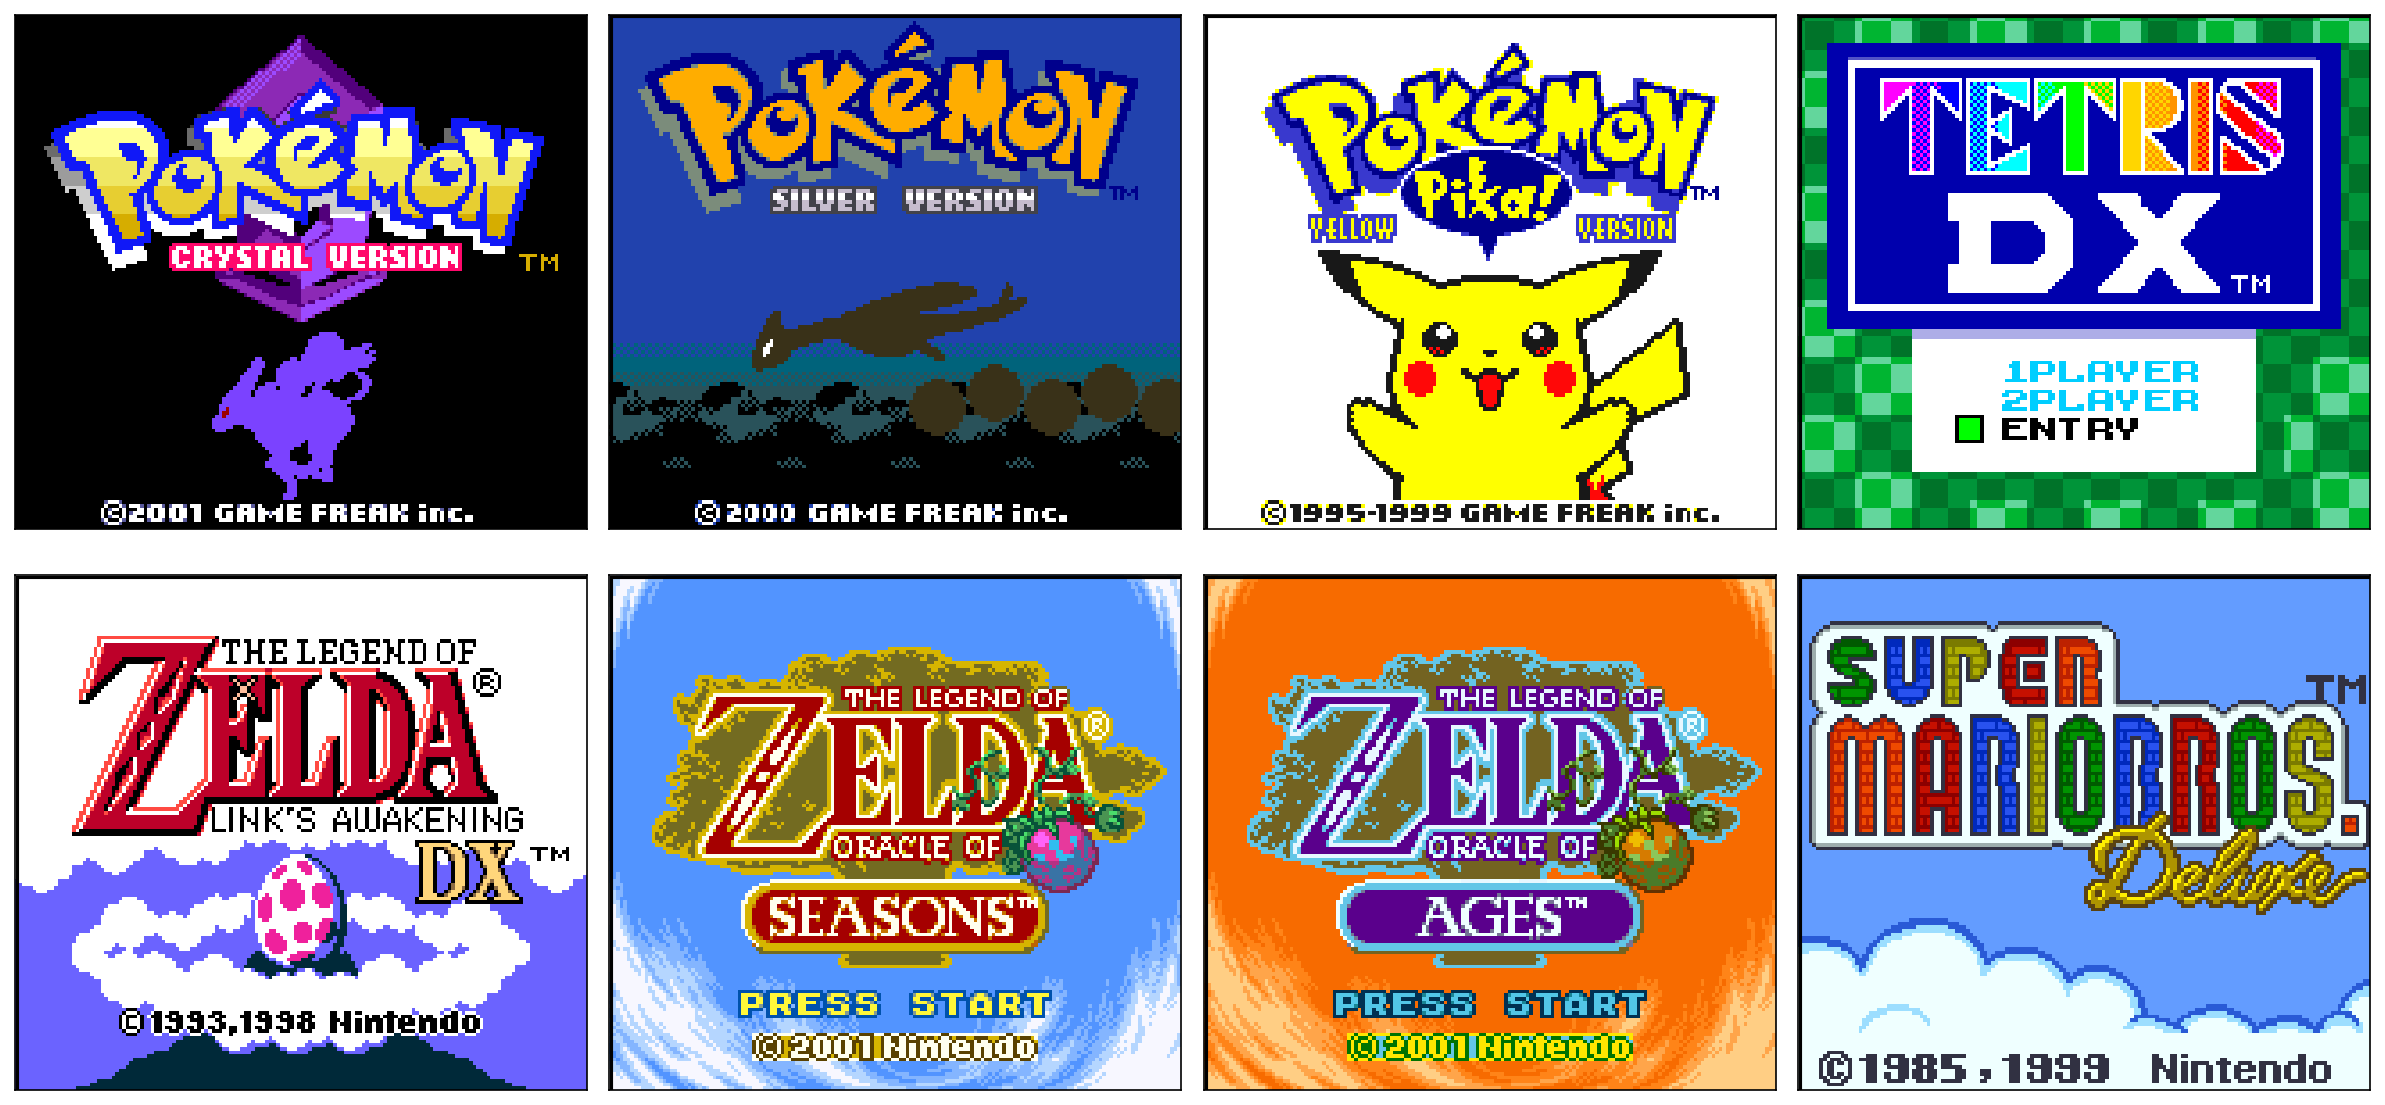
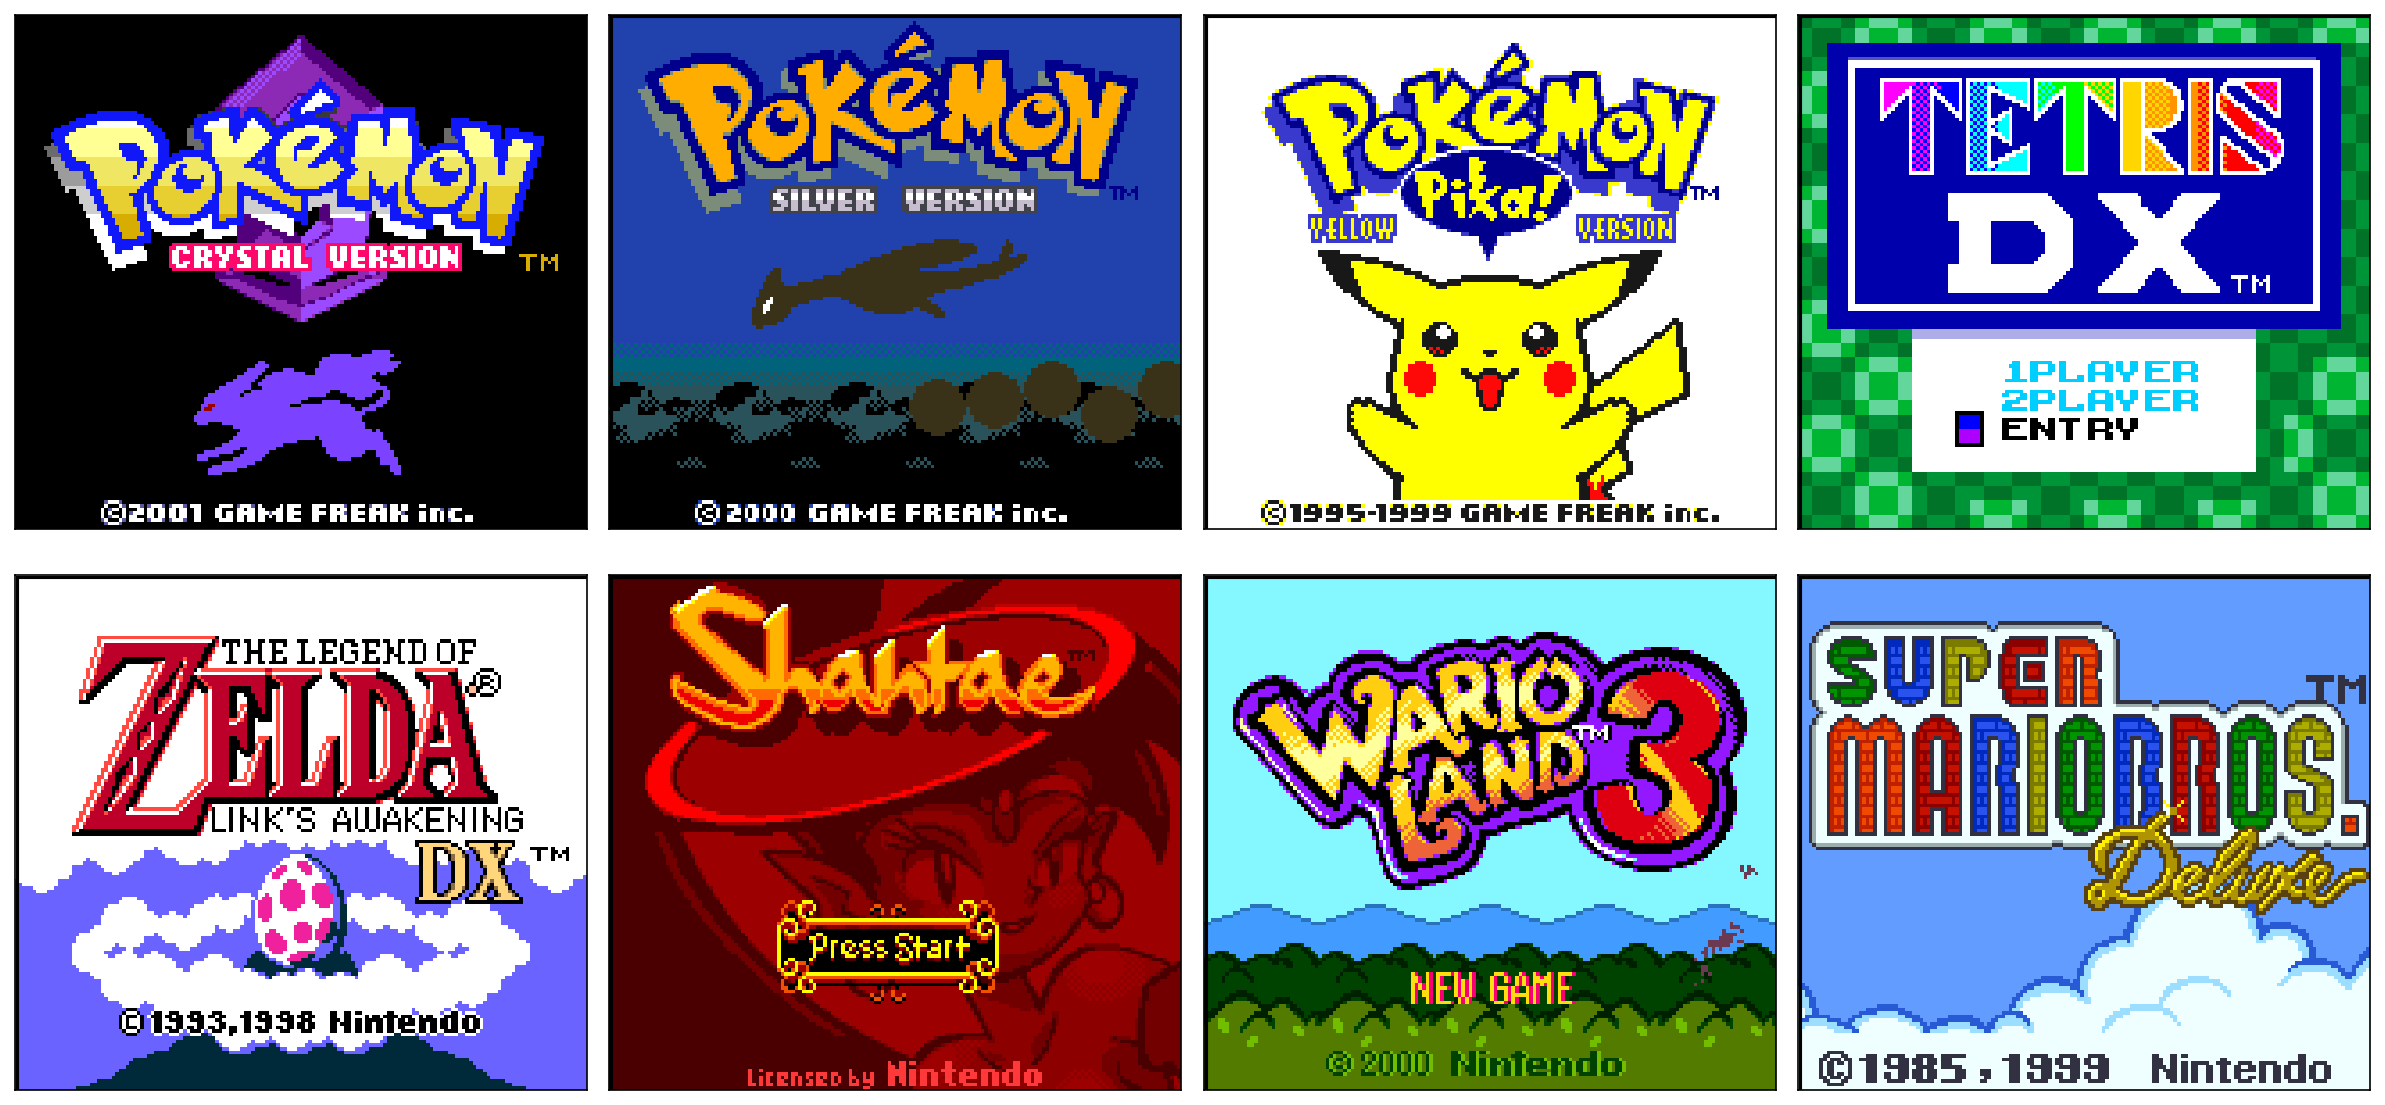
Update readme visual script

diff --git a/testing/util/readme_visual.py b/testing/util/readme_visual.py
@@ -1,30 +1,21 @@
 #!/usr/bin/env python3
-from gbc_py import (
-    load_cart_fs,
+from irogb_python import (
+    load_cart_filesystem,
     GameBoyColor,
 )
 from matplotlib.patches import Rectangle
 import matplotlib.pyplot as plt
 from typing import List
-import numpy as np
+import os
 
 
-def __run_and_get_frame(path: str, seconds: int) -> List[int]:
-    cart = load_cart_fs(path)
-    gbc = GameBoyColor()
-    gbc.insert_cartridge(cart)
+def run_and_get_frame(path: str, seconds: int) -> List[int]:
+    cart = load_cart_filesystem(path)
+    gbc = GameBoyColor(cartridge=cart)
 
-    gbc.step_cycles(70224 * 60 * seconds)
-    return gbc.get_frame()
-
-
-def __render_from_path(path, seconds):
-    frame = __run_and_get_frame(path, seconds)
-    frame = np.asarray(frame, dtype=np.uint32)
-
-    pixels = frame.view(np.uint8).reshape((144, 160, 4))
-    img = pixels[..., [2, 1, 0]]  # ARGB8888 → RGB
-    return img
+    for _ in range(seconds * 60):
+        gbc.step_frame()
+    return gbc.frame.as_numpy()
 
 
 def __run_test_set(
@@ -32,8 +23,10 @@ def __run_test_set(
     seconds: List[int],
     out_path: str,
 ):
-    images = [__render_from_path(path, second)
-              for path, second in zip(paths, seconds)]
+    images = [
+        run_and_get_frame(path, second)
+        for path, second in zip(paths, seconds)
+    ]
     n = len(images)
 
     rows, cols = 2, 4
@@ -67,16 +60,16 @@ def __run_test_set(
 def make_dmg_demo():
     __run_test_set(
         paths=[
-            '/home/dorce/Documents/git/GBCEmulator/roms/kirby.gb',
-            '/home/dorce/Documents/git/GBCEmulator/roms/duck_tales.gb',
-            '/home/dorce/Documents/git/GBCEmulator/roms/smb2.gb',
-            '/home/dorce/Documents/git/GBCEmulator/roms/smb.gb',
-            '/home/dorce/Documents/git/GBCEmulator/roms/zelda.gb',
-            '/home/dorce/Documents/git/GBCEmulator/roms/pk_blue.gb',
-            '/home/dorce/Documents/git/GBCEmulator/roms/pk_red.gb',
-            '/home/dorce/Documents/git/GBCEmulator/roms/castlevania.gb',
+            f'{os.getenv('ROMS')}/kirby.gb',
+            f'{os.getenv('ROMS')}/duck_tales.gb',
+            f'{os.getenv('ROMS')}/smb2.gb',
+            f'{os.getenv('ROMS')}/smb.gb',
+            f'{os.getenv('ROMS')}/zelda.gb',
+            f'{os.getenv('ROMS')}/tetris.gb',
+            f'{os.getenv('ROMS')}/pk_red.gb',
+            f'{os.getenv('ROMS')}/castlevania.gb',
         ],
-        seconds=[8, 5, 5, 7, 65, 30, 30, 15],
+        seconds=[8, 5, 5, 7, 65, 20, 30, 15],
         out_path='assets/dmg_demo.png'
     )
 
@@ -84,16 +77,16 @@ def make_dmg_demo():
 def make_cgb_demo():
     __run_test_set(
         paths=[
-            '/home/dorce/Documents/git/GBCEmulator/roms/pk_crystal.gbc',
-            '/home/dorce/Documents/git/GBCEmulator/roms/pk_silver.gbc',
-            '/home/dorce/Documents/git/GBCEmulator/roms/pk_yellow.gbc',
-            '/home/dorce/Documents/git/GBCEmulator/roms/tetris.gbc',
-            '/home/dorce/Documents/git/GBCEmulator/roms/zelda.gbc',
-            '/home/dorce/Documents/git/GBCEmulator/roms/zelda_oracle_of_seasons.gbc',
-            '/home/dorce/Documents/git/GBCEmulator/roms/zelda_oracle_of_ages.gbc',
-            '/home/dorce/Documents/git/GBCEmulator/roms/smb.gbc',
+            f'{os.getenv('ROMS')}/pk_crystal.gbc',
+            f'{os.getenv('ROMS')}/pk_silver.gbc',
+            f'{os.getenv('ROMS')}/pk_yellow.gbc',
+            f'{os.getenv('ROMS')}/tetris.gbc',
+            f'{os.getenv('ROMS')}/zelda.gbc',
+            f'{os.getenv('ROMS')}/shantae.gbc',
+            f'{os.getenv('ROMS')}/wario3.gbc',
+            f'{os.getenv('ROMS')}/smb.gbc',
         ],
-        seconds=[66, 66, 40, 20, 65, 100, 100, 15],
+        seconds=[66, 66, 38, 20, 65, 25, 45, 15],
         out_path='assets/cgb_demo.png'
     )
 
